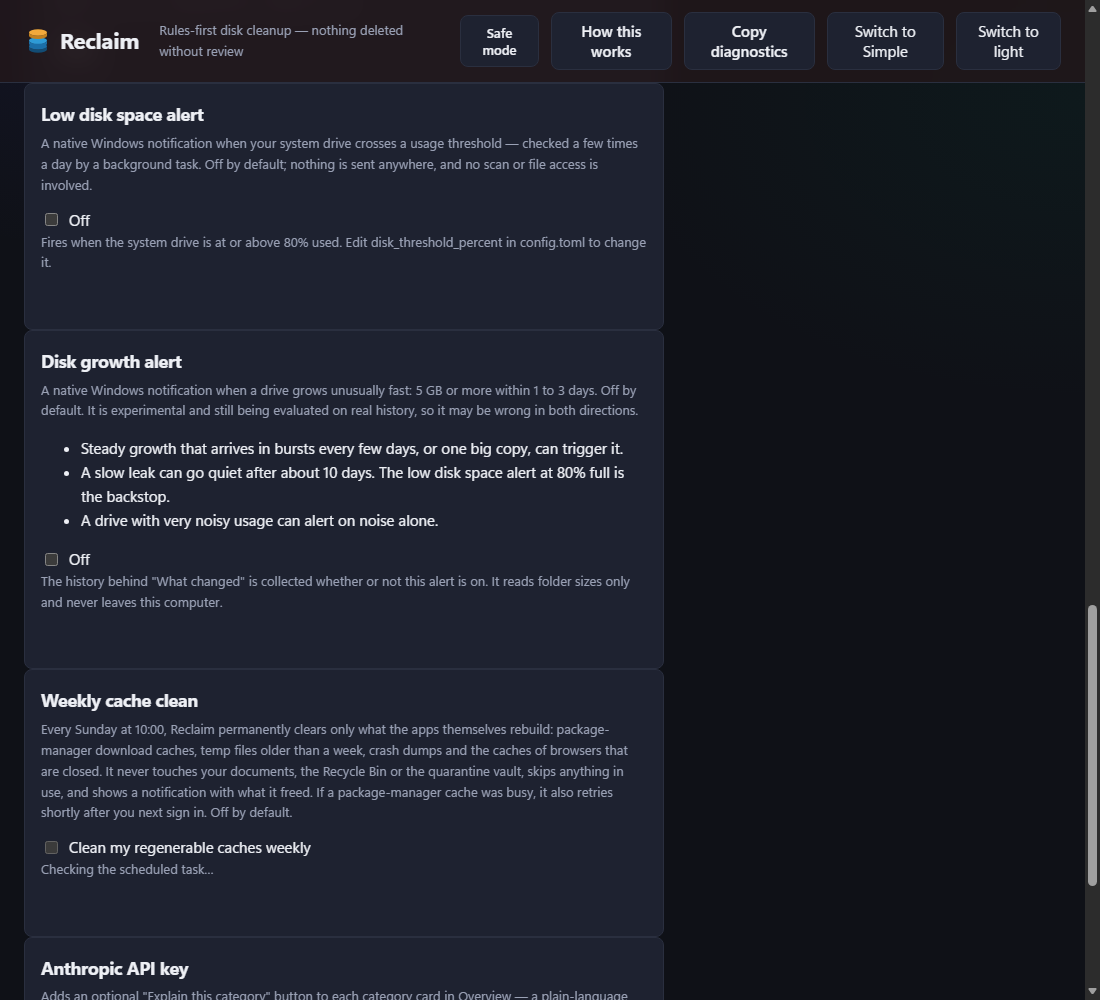
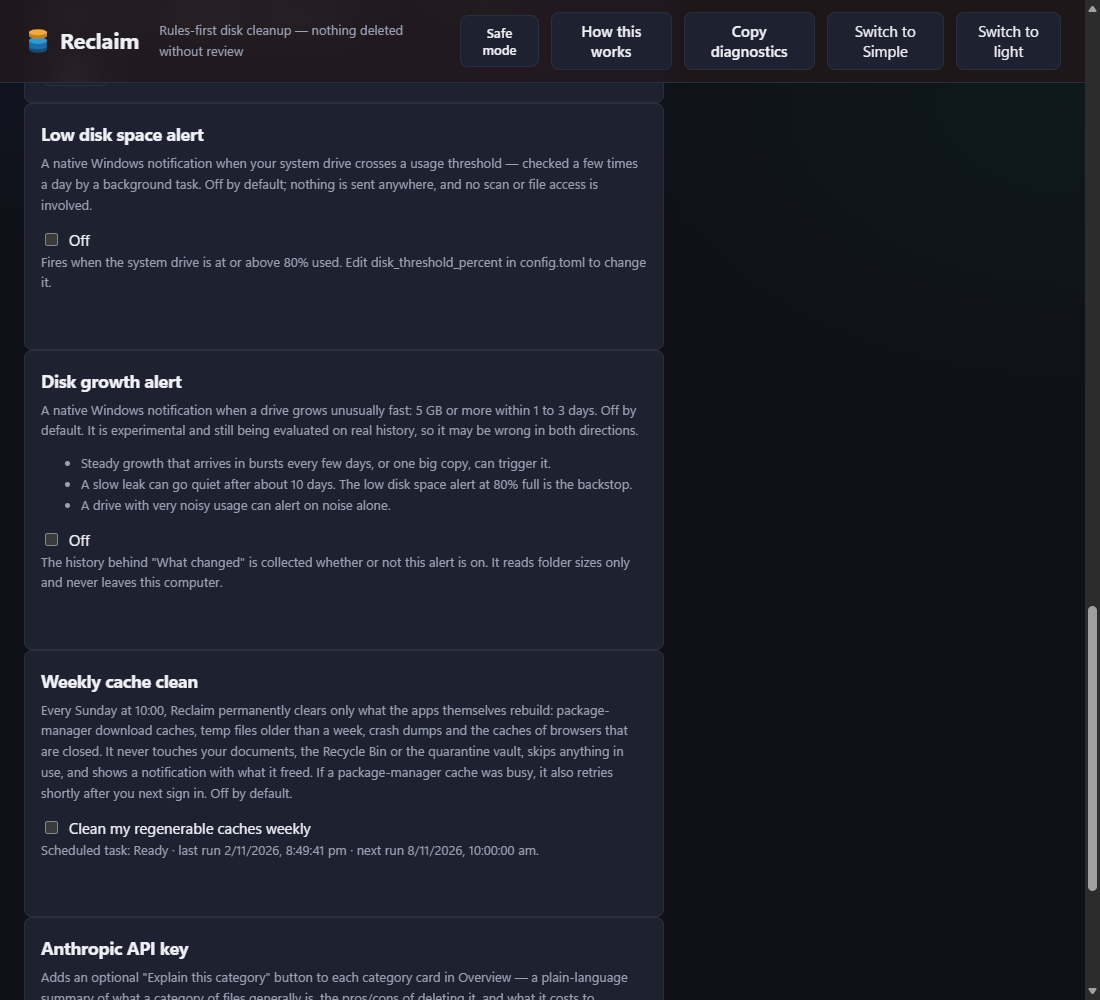
style(ui): settings-panel list uses the muted paragraph style
The growth alert limits list rendered larger and brighter than the panel text
beside it, because only `.rc-settings-panel > p` was styled. The same rule now
covers a direct `ul` child; no other settings panel has one. Screenshots
re-captured on the hermetic server.

diff --git a/src/reclaim/api/static/styles.css b/src/reclaim/api/static/styles.css
@@ -631,7 +631,8 @@ a:active {
   font-size: var(--rc-text-lg);
 }
 
-.rc-settings-panel > p {
+.rc-settings-panel > p,
+.rc-settings-panel > ul {
   color: var(--rc-text-muted);
   font-size: var(--rc-text-sm);
   margin: 0 0 var(--rc-space-3);
